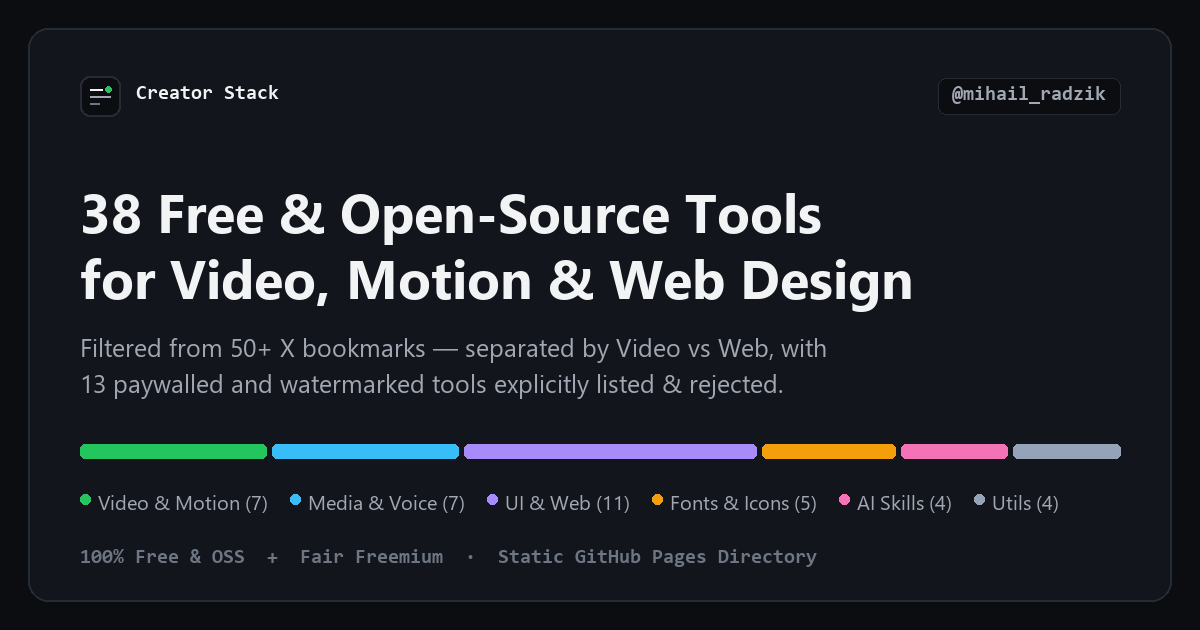
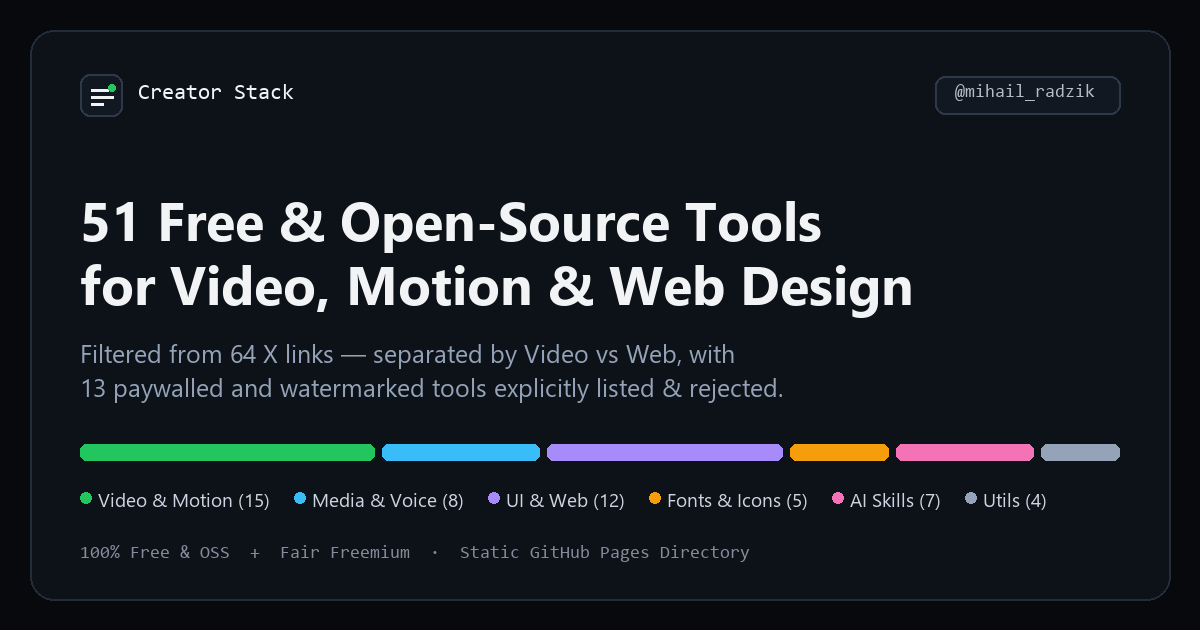
Expand Creator Stack to 51 tools with 13 open-source animation, video, and anti-slop repos

diff --git a/data.js b/data.js
@@ -6,7 +6,7 @@ window.TOOLKIT_DATA = {
       heroBadge: "Кураторский архив · 2026",
       heroTitle: "Бесплатный стек для видео и веб-дизайна",
       heroSubtitle:
-        "38 бесплатных, open-source и честных freemium-инструментов из закладок. 13 платных сервисов и генераторов с вотермарками отсеяны вручную.",
+        "51 бесплатный, open-source и честный freemium-инструмент из закладок. 13 платных сервисов и генераторов с вотермарками отсеяны вручную.",
       kpiTools: "инструментов",
       kpiCats: "категорий",
       kpiFiltered: "платных отсеяно",
@@ -59,7 +59,7 @@ window.TOOLKIT_DATA = {
       heroBadge: "Curated archive · 2026",
       heroTitle: "Free stack for video and web design",
       heroSubtitle:
-        "38 free, open-source, and honest freemium tools vetted from bookmarks. 13 paywalled or watermarked services were filtered out.",
+        "51 free, open-source, and honest freemium tool vetted from bookmarks. 13 paywalled or watermarked services were filtered out.",
       kpiTools: "vetted tools",
       kpiCats: "categories",
       kpiFiltered: "paid filtered out",
@@ -269,6 +269,150 @@ window.TOOLKIT_DATA = {
         en: "Hosted web service uses credits, while the GitHub core runs freely under Apache 2.0."
       }
     },
+    {
+      id: "video-use",
+      name: "video-use",
+      url: "https://github.com/browser-use/video-use",
+      domain: "github.com/browser-use/video-use",
+      category: "video",
+      pricing: "oss",
+      targets: ["video"],
+      featured: true,
+      desc: {
+        ru: "Open-source агентский монтаж из сырых футажей: вырезка пауз, цветокор, титры и оверлеи в Remotion/HyperFrames.",
+        en: "Open-source agentic video editor: trims dead air and fillers, color grades, burns captions, and renders final.mp4."
+      },
+      caveat: {
+        ru: "Лицензия MIT; в базовой сборке просит ElevenLabs API key для транскрибации (есть бесплатный лимит или замена на локальный Whisper).",
+        en: "MIT open source; default setup asks for an ElevenLabs API key for transcription (free tier available or swap local Whisper)."
+      }
+    },
+    {
+      id: "line-art-animation",
+      name: "line-art-animation",
+      url: "https://github.com/JDhruv14/line-art-animation",
+      domain: "github.com/JDhruv14/line-art-animation",
+      category: "video",
+      pricing: "oss",
+      targets: ["video", "web"],
+      featured: true,
+      desc: {
+        ru: "TypeScript-библиотека и скилл для нарисованных чернилами SVG-персонажей, походки, сцен день/ночь и покадрового экспорта.",
+        en: "Claude skill and dependency-free TypeScript library for animated hand-drawn ink SVG figures, gaits, and day/night scenes."
+      },
+      caveat: {
+        ru: "MIT-лицензия; отлично ложится в Remotion-пайплайн для анимированных скетчей и историй.",
+        en: "MIT license; exports crisp SVG frames ideal for Remotion and interactive storytelling."
+      }
+    },
+    {
+      id: "roughjs",
+      name: "Rough.js",
+      url: "https://github.com/rough-stuff/rough",
+      domain: "github.com/rough-stuff/rough",
+      category: "video",
+      pricing: "oss",
+      targets: ["video", "web"],
+      featured: true,
+      desc: {
+        ru: "Лёгкая графика в стиле рисунка от руки для Canvas и SVG — живые схемы, рамки, диаграммы и скетч-титры.",
+        en: "Lightweight graphics library rendering SVG and Canvas primitives with a natural hand-drawn sketchy aesthetic."
+      },
+      caveat: {
+        ru: "100% бесплатно (MIT); работает прямо в браузере и внутри композиций Remotion.",
+        en: "100% free (MIT); integrates directly into React/Remotion compositions and web canvases."
+      }
+    },
+    {
+      id: "motion-canvas",
+      name: "Motion Canvas",
+      url: "https://github.com/motion-canvas/motion-canvas",
+      domain: "github.com/motion-canvas/motion-canvas",
+      category: "video",
+      pricing: "oss",
+      targets: ["video"],
+      featured: false,
+      desc: {
+        ru: "Визуальный редактор + TypeScript-генератор процедурной 2D-анимации и технических объяснялок синхронно со звуком.",
+        en: "Code-driven TypeScript 2D animation library paired with a real-time browser preview editor synced to audio."
+      },
+      caveat: {
+        ru: "MIT-лицензия; мощная альтернатива для инфографики и схем без React.",
+        en: "MIT open source; strong fit for diagrams, technical explainers, and synced motion."
+      }
+    },
+    {
+      id: "scarlet",
+      name: "Scarlet",
+      url: "https://github.com/Forward-Future/scarlet",
+      domain: "github.com/Forward-Future/scarlet",
+      category: "video",
+      pricing: "oss",
+      targets: ["video"],
+      featured: false,
+      desc: {
+        ru: "Настольный open-source AI-видеоредактор под Windows и macOS: правки голосом/текстом, встроенный Whisper и версионные склейки.",
+        en: "Open-source desktop AI video editor for Windows/macOS/Linux with bundled local Whisper and non-destructive agent cutlists."
+      },
+      caveat: {
+        ru: "MIT; локальная транскрибация работает из коробки, а агент подключается по вашей подписке Claude Code или Codex.",
+        en: "MIT; local Whisper transcription is built in, while coding agents connect via your existing Claude Code or Codex setup."
+      }
+    },
+    {
+      id: "threejs",
+      name: "Three.js",
+      url: "https://github.com/mrdoob/three.js",
+      domain: "github.com/mrdoob/three.js",
+      category: "video",
+      pricing: "oss",
+      targets: ["video", "web"],
+      featured: true,
+      desc: {
+        ru: "Главная WebGL-библиотека для 3D-сцен, частиц, шейдеров и камер прямо в браузере, на лендингах и в Remotion.",
+        en: "Standard WebGL/WebGPU JavaScript 3D engine for interactive web scenes, shaders, and @remotion/three compositions."
+      },
+      caveat: {
+        ru: "100% бесплатно (MIT); именно на ней работает 3D-кристалл в шапке этого каталога.",
+        en: "100% free (MIT); powers the live 3D sculpture in this site's hero."
+      }
+    },
+    {
+      id: "blender-mcp",
+      name: "Blender MCP",
+      url: "https://github.com/ahujasid/mcp-for-blender",
+      domain: "github.com/ahujasid/mcp-for-blender",
+      category: "video",
+      pricing: "oss",
+      targets: ["video"],
+      featured: false,
+      desc: {
+        ru: "MCP-мост, через который ИИ-агент напрямую создаёт 3D-модели, материалы, свет и рендеры в локальном Blender.",
+        en: "Open-source MCP bridge letting AI agents build 3D meshes, materials, lighting, and renders directly inside Blender."
+      },
+      caveat: {
+        ru: "MIT; работает полностью локально в связке с бесплатным Blender 4.x/5.x.",
+        en: "MIT; runs 100% locally alongside free open-source Blender."
+      }
+    },
+    {
+      id: "ffmpeg",
+      name: "FFmpeg",
+      url: "https://github.com/FFmpeg/FFmpeg",
+      domain: "github.com/FFmpeg/FFmpeg",
+      category: "video",
+      pricing: "oss",
+      targets: ["video"],
+      featured: true,
+      desc: {
+        ru: "Незаменимый консольный движок для склейки, перекодирования, громкости (loudnorm), субтитров и нарезки 9:16 / 16:9.",
+        en: "Essential open-source CLI engine for transcoding, loudnorm audio mastering, muxing, clipping, and final feed exports."
+      },
+      caveat: {
+        ru: "Полностью бесплатный стандарт индустрии под капотом Remotion и видеопайплайнов.",
+        en: "Completely free industry backbone powering Remotion and automated video pipelines."
+      }
+    },
 
     // 2. Media, stock & voice (7)
     {
@@ -395,6 +539,24 @@ window.TOOLKIT_DATA = {
       caveat: {
         ru: "Дневные лимиты бесплатных генераций; приоритетный просчёт от $5/мес.",
         en: "Daily free credit cap; priority queues and heavier batches require paid plans (~$5/mo)."
+      }
+    },
+    {
+      id: "real-esrgan",
+      name: "Real-ESRGAN",
+      url: "https://github.com/xinntao/Real-ESRGAN",
+      domain: "github.com/xinntao/Real-ESRGAN",
+      category: "media",
+      pricing: "oss",
+      targets: ["video", "web"],
+      featured: true,
+      desc: {
+        ru: "Бесплатный локальный AI-апскейлер старых архивных фото, 2D-иллюстраций и видеофрагментов без вотермарков.",
+        en: "Open-source local AI upscaler restoring blurry archival photos, illustrations, and video clips without watermarks."
+      },
+      caveat: {
+        ru: "Лицензия BSD-3; полноценная бесплатная альтернатива дорогому Topaz Labs на вашем ПК.",
+        en: "BSD-3-Clause; free local replacement for paid desktop upscalers like Topaz Labs."
       }
     },
 
@@ -597,6 +759,24 @@ window.TOOLKIT_DATA = {
         en: "Free tier includes an element cap that easily covers several project moodboards."
       }
     },
+    {
+      id: "sakuga-vfx",
+      name: "Sakuga VFX",
+      url: "https://github.com/finktheartist/sakuga-vfx",
+      domain: "github.com/finktheartist/sakuga-vfx",
+      category: "design",
+      pricing: "oss",
+      targets: ["web"],
+      featured: false,
+      desc: {
+        ru: "12 однофайловых веб-компонентов (кнопки, свитчеры, тосты) с аниме-эффектами дыма, вспышек и физики нажатий.",
+        en: "Twelve dependency-free single-file UI controls firing hand-drawn anime smoke puffs, bursts, and spring impacts."
+      },
+      caveat: {
+        ru: "MIT-лицензия; без сборок и внешних запросов — для смелых промо-страниц.",
+        en: "MIT license; zero dependencies and self-contained assets for expressive promo UIs."
+      }
+    },
 
     // 4. Fonts & icons (5)
     {
@@ -761,6 +941,60 @@ window.TOOLKIT_DATA = {
       caveat: {
         ru: "Открытые инструкции (MIT / Apache 2.0).",
         en: "Free open-source guidelines repository."
+      }
+    },
+    {
+      id: "impeccable",
+      name: "Impeccable",
+      url: "https://github.com/pbakaus/impeccable",
+      domain: "github.com/pbakaus/impeccable",
+      category: "skills",
+      pricing: "oss",
+      targets: ["web"],
+      featured: true,
+      desc: {
+        ru: "Дизайн-лексикон и аудит для агентов (`polish`, `bolder`, `critique`, `audit`) + детектор из 62 правил против ИИ-штампов.",
+        en: "Agent design vocabulary (polish, bolder, critique, audit) plus a 62-rule deterministic anti-slop linter."
+      },
+      caveat: {
+        ru: "Apache 2.0; официально поддерживает Antigravity, Claude Code и Codex.",
+        en: "Apache 2.0; native install support for Antigravity, Claude Code, and Codex."
+      }
+    },
+    {
+      id: "hallmark",
+      name: "Hallmark",
+      url: "https://github.com/Nutlope/hallmark",
+      domain: "github.com/Nutlope/hallmark",
+      category: "skills",
+      pricing: "oss",
+      targets: ["web"],
+      featured: true,
+      desc: {
+        ru: "Скилл против «машинного» дизайна от Together AI: 50 проработанных тем, гейты качества и 755 фото с Wikimedia Commons.",
+        en: "Anti-AI-slop design skill by Together AI packing 50 themes, quality floor gates, and 755 open-licensed photos."
+      },
+      caveat: {
+        ru: "MIT-лицензия; проверяет реальный рендер в браузере на контраст, типографику и поломки на телефоне.",
+        en: "MIT license; enforces contrast, layout, and mobile checks directly in headless browser verification."
+      }
+    },
+    {
+      id: "mengto-skills",
+      name: "Meng To Skills",
+      url: "https://github.com/MengTo/Skills",
+      domain: "github.com/MengTo/Skills",
+      category: "skills",
+      pricing: "oss",
+      targets: ["web"],
+      featured: false,
+      desc: {
+        ru: "Коллекция плейбуков по веб-дизайну, Three.js-шейдерам, оптимизации анимаций и 14 стилям SVG-иллюстраций.",
+        en: "Portable UI, Three.js 3D, WebGL optimization, and 14-style SVG illustration playbooks for AI coding agents."
+      },
+      caveat: {
+        ru: "MIT-лицензия; можно брать отдельные папки скиллов под конкретные сцены и эффекты.",
+        en: "MIT license; modular SKILL.md folders tailored to individual visual techniques."
       }
     },
 

diff --git a/index.html b/index.html
@@ -4,18 +4,18 @@
   <meta charset="utf-8">
   <meta name="viewport" content="width=device-width, initial-scale=1.0">
   <title>Creator Stack — Free Video, Motion &amp; Web Design Directory</title>
-  <meta name="description" content="38 verified free, open-source, and fair freemium tools for programmatic video, stock media, fonts, UI systems, and AI design skills. 13 paid/watermarked traps filtered out.">
+  <meta name="description" content="51 verified free, open-source, and fair freemium tools for programmatic video, stock media, fonts, UI systems, and AI design skills. 13 paid/watermarked traps filtered out.">
 
   <meta property="og:type" content="website">
   <meta property="og:url" content="https://smmisha.github.io/creator-stack/">
   <meta property="og:title" content="Creator Stack — Verified Free Stack for Video &amp; Web Design">
-  <meta property="og:description" content="38 vetted free &amp; open-source tools across Remotion, stock media, voice AI, UI components, fonts, and agent skills. 13 paywalled tools filtered out.">
+  <meta property="og:description" content="51 vetted free &amp; open-source tools across Remotion, stock media, voice AI, UI components, fonts, and agent skills. 13 paywalled tools filtered out.">
   <meta property="og:image" content="https://smmisha.github.io/creator-stack/og-card.png">
 
   <meta name="twitter:card" content="summary_large_image">
   <meta name="twitter:creator" content="@mihail_radzik">
   <meta name="twitter:title" content="Creator Stack — Free Video, Motion &amp; Web Design Stack">
-  <meta name="twitter:description" content="38 free &amp; honest freemium tools vetted from bookmarks, cleanly split between video production and web design.">
+  <meta name="twitter:description" content="51 free &amp; honest freemium tools vetted from bookmarks, cleanly split between video production and web design.">
   <meta name="twitter:image" content="https://smmisha.github.io/creator-stack/og-card.png">
 
   <link rel="icon" type="image/svg+xml" href="./favicon.svg">
@@ -65,12 +65,12 @@
 
         <h1 class="hero-title" id="hero-title">Бесплатный стек для видео и веб-дизайна</h1>
         <p class="hero-subtitle" id="hero-subtitle">
-          38 бесплатных, open-source и честных freemium-инструментов из закладок. 13 платных сервисов и генераторов с вотермарками отсеяны вручную.
+          51 бесплатный, open-source и честный freemium-инструмент из закладок. 13 платных сервисов и генераторов с вотермарками отсеяны вручную.
         </p>
 
         <div class="hero-kpis" id="hero-kpis">
           <div class="kpi-item">
-            <span class="kpi-val" data-count-target="38">38</span>
+            <span class="kpi-val" data-count-target="51">51</span>
             <span class="kpi-lbl" id="kpi-tools-lbl">инструментов</span>
           </div>
           <div class="kpi-divider" aria-hidden="true"></div>
@@ -143,7 +143,7 @@
           <button type="button" class="stage-tile stage-tile-audit" id="stage-audit-btn">
             <div class="stage-tile-head">
               <span class="stage-chip is-audit" id="stage-audit-tag">Аудит тарифов</span>
-              <span class="stage-mono">38 / 51</span>
+              <span class="stage-mono">51 / 64</span>
             </div>
             <div class="ratio-viz" aria-hidden="true">
               <div class="ratio-bar">
@@ -151,8 +151,8 @@
                 <span class="ratio-fill-drop"></span>
               </div>
               <div class="ratio-legend">
-                <span>Clean · 74.5%</span>
-                <span>Filtered · 25.5%</span>
+                <span>Clean · 79.7%</span>
+                <span>Filtered · 20.3%</span>
               </div>
             </div>
             <div class="stage-tile-foot">
@@ -174,7 +174,7 @@
       <div class="breakdown-card">
         <div class="breakdown-head">
           <span class="breakdown-label" id="breakdown-label">Состав каталога по категориям</span>
-          <span class="breakdown-count" id="shown-counter">38 / 38 показано</span>
+          <span class="breakdown-count" id="shown-counter">51 / 51 показано</span>
         </div>
         <div class="breakdown-track" id="breakdown-track" role="group" aria-label="Category breakdown"></div>
         <div class="breakdown-legend" id="breakdown-legend"></div>

diff --git a/styles.css b/styles.css
@@ -617,14 +617,14 @@ button {
 }
 
 .ratio-fill-ok {
-  width: 74.5%;
+  width: 79.7%;
   height: 100%;
   border-radius: 4px;
   background-color: var(--accent);
 }
 
 .ratio-fill-drop {
-  width: 25.5%;
+  width: 20.3%;
   height: 100%;
   border-radius: 4px;
   background-color: rgba(241, 243, 245, 0.18);

diff --git a/README.md b/README.md
@@ -1,6 +1,6 @@
 # Creator Stack — Free Video, Motion & Web Design Directory
 
-Статический двуязычный (`RU / EN`) каталог с **38 проверенными бесплатными, open-source и честными freemium-инструментами** для создания видео и дизайна сайтов. Отдельный спойлер внизу честно перечисляет **13 платных или ставящих вотермарки сервисов**, которые не прошли фильтр.
+Статический двуязычный (`RU / EN`) каталог с **51 проверенным бесплатным, open-source и честным freemium-инструментом** для создания видео и дизайна сайтов. Отдельный спойлер внизу честно перечисляет **13 платных или ставящих вотермарки сервисов**, которые не прошли фильтр.
 
 ## Живая страница
 
@@ -22,6 +22,6 @@ https://smmisha.github.io/creator-stack/?lang=en
 ```text
 Разобрал свои закладки в X и отфильтровал всё, где нужен платный тариф или вылезают вотермарки.
 
-Собрал открытый каталог на 38 бесплатных / OSS инструментов — отдельно для видео (Remotion, стоки, голос, эмодзи) и отдельно для дизайна сайтов (плюс список из 13 отсеянных сервисов):
+Собрал открытый каталог на 51 бесплатный / OSS инструмент — отдельно для видео (Remotion, стоки, голос, эмодзи) и отдельно для дизайна сайтов (плюс список из 13 отсеянных сервисов):
 https://smmisha.github.io/creator-stack/
 ```
